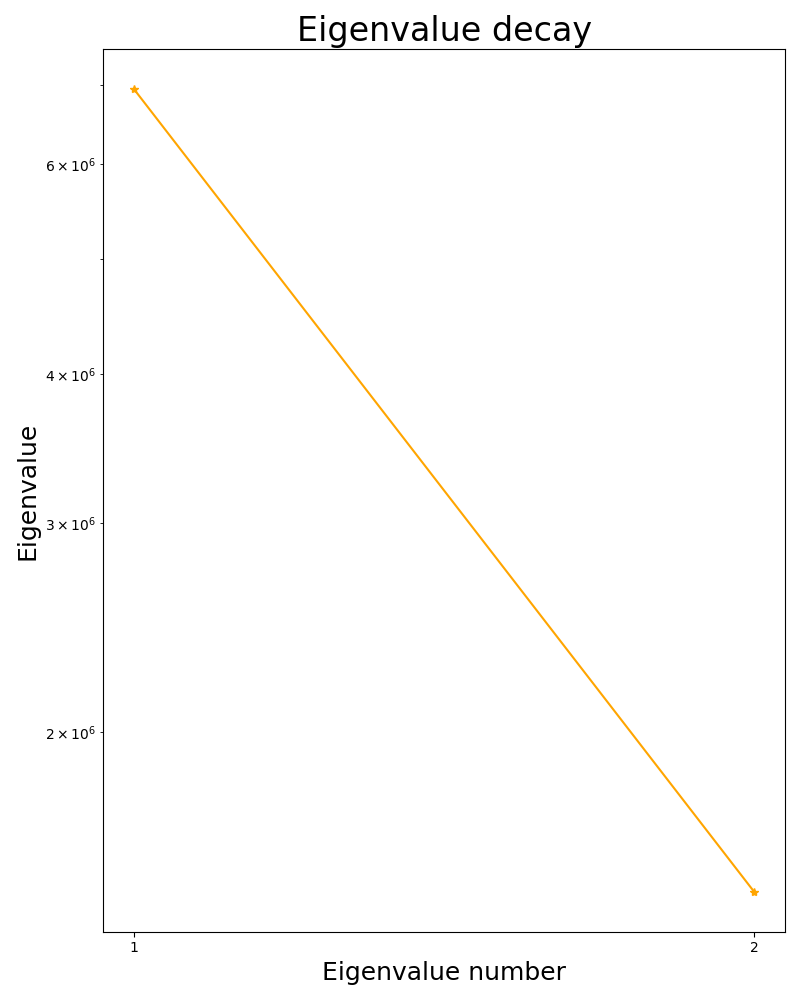
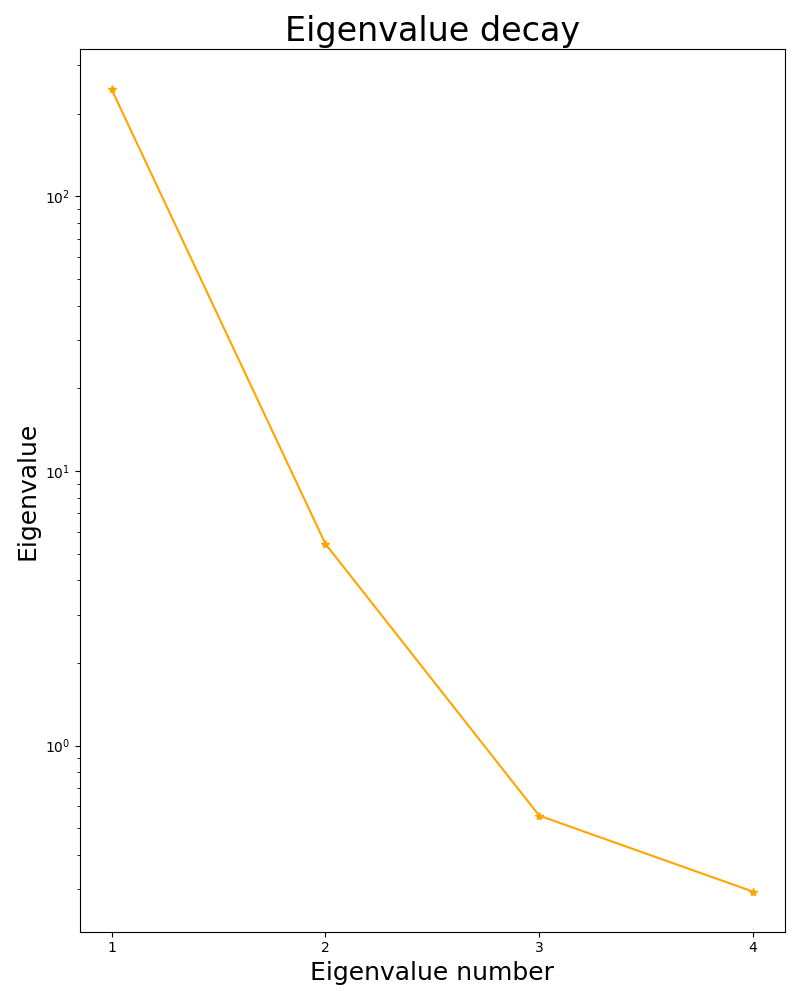
In work

diff --git a/demo/stokes_flow_dlrbnicsx_distributed/dlrbnicsx_stokes_equation_distributed.py b/demo/stokes_flow_dlrbnicsx_distributed/dlrbnicsx_stokes_equation_distributed.py
@@ -312,9 +312,15 @@ pod_samples = [3, 3]
 ann_samples = [3, 4]
 error_analysis_samples = [4, 3]
 num_snapshots = np.product(pod_samples)
-nbytes_para = itemsize * num_snapshots * para_dim
-nbytes_dofs_u = itemsize * num_snapshots * num_dofs_u
-nbytes_dofs_p = itemsize * num_snapshots * num_dofs_p
+
+if world_comm.rank == 0:
+    nbytes_para = itemsize * num_snapshots * para_dim
+    nbytes_dofs_u = itemsize * num_snapshots * num_dofs_u
+    nbytes_dofs_p = itemsize * num_snapshots * num_dofs_p
+else:
+    nbytes_para = 0
+    nbytes_dofs_u = 0
+    nbytes_dofs_p = 0
 
 # POD Starts ###
 
@@ -342,7 +348,7 @@ buf1, itemsize = win1.Shared_query(0)
 training_set_solution_u = np.ndarray(buffer=buf1, dtype="d", shape=(num_snapshots, num_dofs_u))
 
 win2 = MPI.Win.Allocate_shared(nbytes_dofs_p, itemsize, comm=MPI.COMM_WORLD)
-buf2, itemsize = win1.Shared_query(0)
+buf2, itemsize = win2.Shared_query(0)
 training_set_solution_p = np.ndarray(buffer=buf2, dtype="d", shape=(num_snapshots, num_dofs_p))
 
 # Solution manifold
@@ -350,9 +356,7 @@ indices = np.arange(world_comm.rank, num_snapshots, world_comm.size)
 
 for i in indices:
     print(f"Solving FEM problem {i+1}/{num_snapshots}")
-    sol_u, sol_p = problem_parametric.solve(training_set[i, :])
-    print(sol_u.x.array)
-    print(sol_p.x.array)
+    (sol_u, sol_p) = problem_parametric.solve(training_set[i, :])
     training_set_solution_u[i, :] = sol_u.x.array
     training_set_solution_p[i, :] = sol_p.x.array
 
@@ -448,12 +452,7 @@ if world_comm.rank == 0:
 
 print(f"Velocity eigenvalues: {positive_eigenvalues_u}")
 print(f"Pressure eigenvalues: {positive_eigenvalues_p}")
-print(indices)
 
-for i in range(len(snapshots_matrix_p)):
-    print(f"Index {i}, \n Velocity array: {(snapshots_matrix_u[i]).x.array}, \n Pressure array: {(snapshots_matrix_p[i]).x.array}")
-
-exit()
 # ### POD Ends ###
 
 # Creating dataset
@@ -656,7 +655,7 @@ if cpu_group0_comm != MPI.COMM_NULL:
     training_loss_u = list()
     validation_loss_u = list()
 
-    max_epochs_u = 50 # 20000
+    max_epochs_u = 1 # 50 # 20000
     min_validation_loss_u = None
     start_epoch = 0
     checkpoint_path_u = "checkpoint_u"
@@ -694,7 +693,7 @@ if cpu_group0_comm != MPI.COMM_NULL:
     end_time = time.time()
     elapsed_time_u = end_time - start_time
 
-
+exit()
 
 model_root_process = 0
 share_model(model_u, world_comm, model_root_process)
@@ -735,7 +734,7 @@ if cpu_group1_comm != MPI.COMM_NULL:
     training_loss_p = list()
     validation_loss_p = list()
 
-    max_epochs_p = 50 # 20000
+    max_epochs_p = 1 # 50 # 20000
     min_validation_loss_p = None
     start_epoch = 0
     checkpoint_path_p = "checkpoint_p"
@@ -783,19 +782,15 @@ if cpu_group0_comm != MPI.COMM_NULL:
 
 if cpu_group1_comm != MPI.COMM_NULL:
     os.system(f"rm {checkpoint_path_p}")
-
-# TODO online_nn and error_analysis adaptation
-
-
-
+exit()
 # Error analysis dataset
 print("\n")
 print("Generating error analysis (only input/parameters) dataset")
 print("\n")
 if rank == 0:
-    error_analysis_set_u = generate_ann_input_set(samples=[15, 15])  # (samples=[3, 3])
+    error_analysis_set_u = generate_ann_input_set(samples=error_analysis_samples)
 else:
-    error_analysis_set_u = np.zeros_like(generate_ann_input_set(samples=[15, 15]))  # (samples=[3, 3]))
+    error_analysis_set_u = np.zeros_like(generate_ann_input_set(samples=error_analysis_samples))
 
 world_comm.Bcast(error_analysis_set_u, root=0)
 
@@ -828,9 +823,9 @@ print("\n")
 print("Generating error analysis (only input/parameters) dataset")
 print("\n")
 if rank == 0:
-    error_analysis_set_p = generate_ann_input_set(samples=[15, 15])  # (samples=[3, 3])
+    error_analysis_set_p = generate_ann_input_set(samples=error_analysis_samples)
 else:
-    error_analysis_set_p = np.zeros_like(generate_ann_input_set(samples=[15, 15]))  # (samples=[3, 3]))
+    error_analysis_set_p = np.zeros_like(generate_ann_input_set(samples=error_analysis_samples))
 
 world_comm.Bcast(error_analysis_set_p, root=0)
 

diff --git a/demo/stokes_flow_dlrbnicsx/dlrbnicsx_stokes_flow.py b/demo/stokes_flow_dlrbnicsx/dlrbnicsx_stokes_flow.py
@@ -289,6 +289,11 @@ mesh, cell_tags, facet_tags = \
 
 # Mesh deformation parameters
 mu = np.array([0.93, 1.03])
+'''
+pod_samples = [8, 8]
+ann_samples = [10, 10]
+error_analysis_samples = [3, 3]
+'''
 pod_samples = [3, 3]
 ann_samples = [3, 4]
 error_analysis_samples = [4, 3]
@@ -425,16 +430,12 @@ plt.savefig("eigenvalue_decay_p")
 print(f"Velocity eigenvalues: {positive_eigenvalues_u}")
 print(f"Pressure eigenvalues: {positive_eigenvalues_p}")
 
-for i in range(training_set.shape[0]):
-    print(f"Index {i}, \n Velocity array: {(snapshots_matrix_u[i]).x.array}, \n Pressure array: {(snapshots_matrix_p[i]).x.array}")
-
-exit()
 # POD Ends ###
 
 # Creating dataset
 
 
-def generate_ann_input_set(samples=ann_samples):
+def generate_ann_input_set(samples=[3, 3]):
     # Select samples from the parameter space for ANN
     training_set_0 = np.linspace(0.5, 1., samples[0])
     training_set_1 = np.linspace(0.5, 1., samples[1])
@@ -528,10 +529,13 @@ path = "model_u.pth"
 # save_model(model_u, path)
 load_model(model_u, path)
 
+for p in model_u.parameters():
+    print(p.data)
+
 training_loss_u = list()
 validation_loss_u = list()
 
-max_epochs_u = 50 # 20000
+max_epochs_u = 1 # 50 # 20000
 min_validation_loss_u = None
 start_epoch_u = 0
 checkpoint_path_u = "checkpoint_u"
@@ -567,17 +571,20 @@ for epochs in range(start_epoch_u, max_epochs_u):
     min_validation_loss_u = min(validation_loss_u)
 end_time = time.time()
 elapsed_time = end_time - start_time
-
+exit()
 # Start of training (Pressure)
 
 path = "model_p.pth"
 # save_model(model_p, path)
 load_model(model_p, path)
 
+for p in model_p.parameters():
+    print(p.data)
+
 training_loss_p = list()
 validation_loss_p = list()
 
-max_epochs_p = 50 # 20000
+max_epochs_p = 1 # 50 # 20000
 min_validation_loss_p = None
 start_epoch_p = 0
 checkpoint_path_p = "checkpoint_p"
@@ -617,7 +624,7 @@ elapsed_time = end_time - start_time
 
 os.system(f"rm {checkpoint_path_u}")
 os.system(f"rm {checkpoint_path_p}")
-
+exit()
 # TODO fix online_nn and error_analysis as N != reduced_problem._basis_functions but reduced_problem._basis_functions_p or reduced_problem._basis_functions_u
 
 # Error analysis dataset
